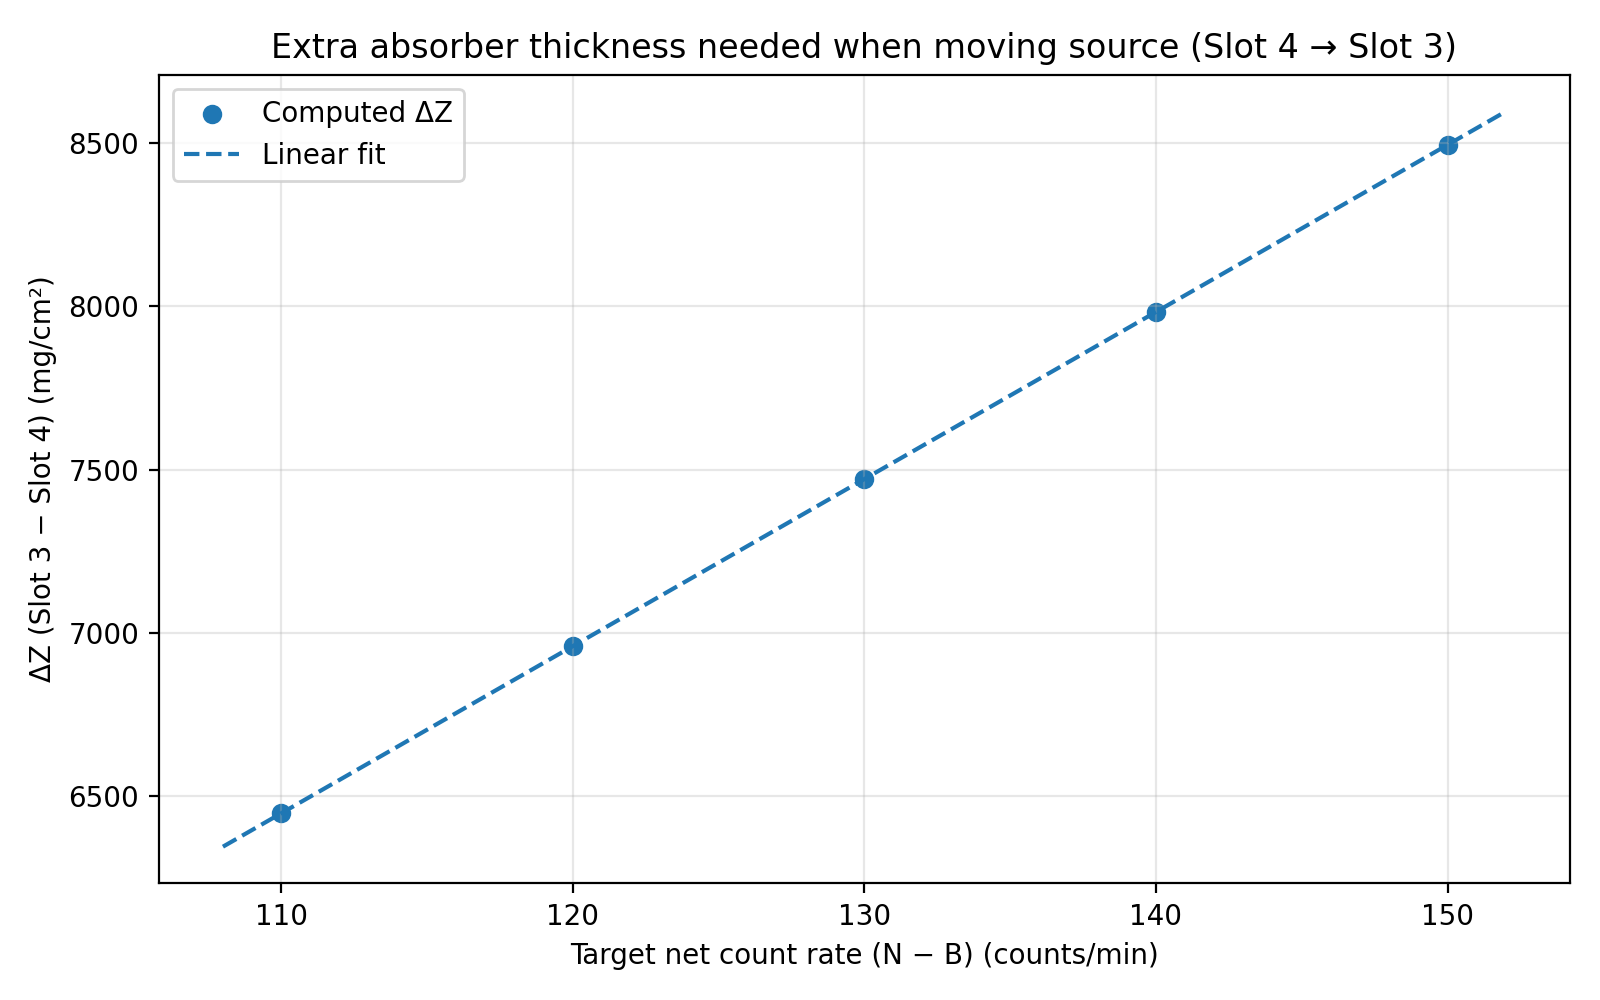
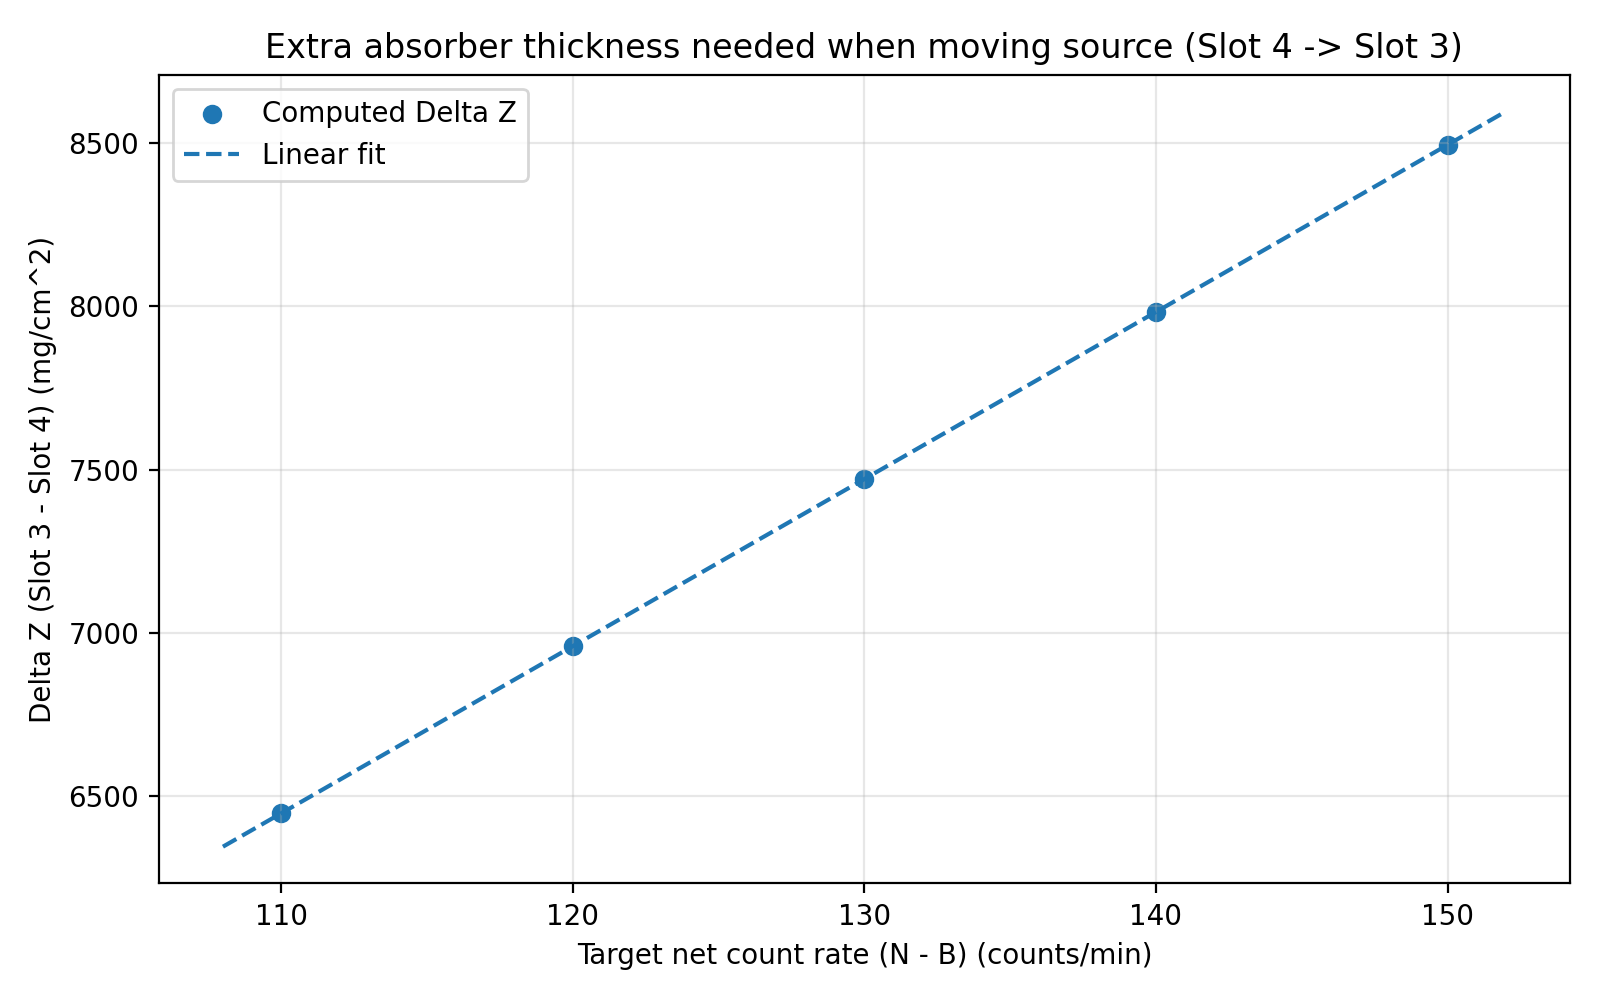
Clarify Co-60 analysis README and figures

diff --git a/src/analyze_co60.py b/src/analyze_co60.py
@@ -1,6 +1,7 @@
 """Analyze Co-60 attenuation data for different source positions.
 
-This script reproduces the key figures and regression results for the portfolio repository.
+This script reproduces the core figures and regression results from the
+experiment.
 
 Inputs
 ------
@@ -13,10 +14,6 @@ Outputs
 - figures/deltaZ_vs_nb.png
 - figures/absorber_position_net_rates.png
 - figures/regression_summary.txt
-
-Usage
------
-python src/analyze_co60.py
 """
 
 from __future__ import annotations
@@ -24,10 +21,10 @@ from __future__ import annotations
 from dataclasses import dataclass
 from pathlib import Path
 
+import matplotlib.pyplot as plt
 import numpy as np
 import pandas as pd
 from scipy import stats
-import matplotlib.pyplot as plt
 
 
 REPO_ROOT = Path(__file__).resolve().parents[1]
@@ -59,38 +56,34 @@ def linear_fit(x: np.ndarray, y: np.ndarray) -> FitResult:
 def main() -> None:
     processed = pd.read_csv(DATA_DIR / "processed_points.csv")
 
-    # Regression for Slot 3 and Slot 4
     slot3 = processed.loc[processed["source_position"] == "Slot 3"].copy()
     slot4 = processed.loc[processed["source_position"] == "Slot 4"].copy()
 
     fit3 = linear_fit(slot3["Z_mg_per_cm2"].to_numpy(), slot3["net_count_rate_cpm"].to_numpy())
     fit4 = linear_fit(slot4["Z_mg_per_cm2"].to_numpy(), slot4["net_count_rate_cpm"].to_numpy())
 
-    # Build delta Z vs N-B mapping (invert y = m x + b  -> x = (y-b)/m)
     nb_values = np.array([110, 120, 130, 140, 150], dtype=float)
 
     def inv_Z(fit: FitResult, nb: np.ndarray) -> np.ndarray:
         return (nb - fit.intercept) / fit.slope
 
-    Z3 = inv_Z(fit3, nb_values)
-    Z4 = inv_Z(fit4, nb_values)
-    deltaZ = Z3 - Z4
+    z3 = inv_Z(fit3, nb_values)
+    z4 = inv_Z(fit4, nb_values)
+    delta_z = z3 - z4
 
-    # --- Figure 1: N-B vs Z by slot with fitted lines ---
     fig1 = plt.figure(figsize=(10, 6))
     ax1 = fig1.add_subplot(111)
 
     for label, df in [("Slot 2", processed[processed["source_position"] == "Slot 2"]), ("Slot 3", slot3), ("Slot 4", slot4)]:
         ax1.scatter(df["Z_mg_per_cm2"], df["net_count_rate_cpm"], label=label)
 
-    # Fit lines for Slot 3 and Slot 4
     x_line = np.linspace(processed["Z_mg_per_cm2"].min() * 0.95, processed["Z_mg_per_cm2"].max() * 1.05, 200)
-    ax1.plot(x_line, fit3.slope * x_line + fit3.intercept, linestyle="--", label=f"Slot 3 fit")
-    ax1.plot(x_line, fit4.slope * x_line + fit4.intercept, linestyle="--", label=f"Slot 4 fit")
+    ax1.plot(x_line, fit3.slope * x_line + fit3.intercept, linestyle="--", label="Slot 3 fit")
+    ax1.plot(x_line, fit4.slope * x_line + fit4.intercept, linestyle="--", label="Slot 4 fit")
 
-    ax1.set_title("Net count rate (N − B) vs areal density Z")
-    ax1.set_xlabel("Absorber areal density Z (mg/cm²)")
-    ax1.set_ylabel("Net count rate (N − B) (counts/min)")
+    ax1.set_title("Net count rate (N - B) vs absorber areal density")
+    ax1.set_xlabel("Absorber areal density Z (mg/cm^2)")
+    ax1.set_ylabel("Net count rate (N - B) (counts/min)")
     ax1.grid(True, alpha=0.3)
     ax1.legend()
 
@@ -98,24 +91,22 @@ def main() -> None:
     fig1.savefig(FIG_DIR / "nb_vs_z_by_slot.png", dpi=200)
     plt.close(fig1)
 
-    # --- Figure 2: deltaZ vs N-B ---
-    fit_delta = linear_fit(nb_values, deltaZ)
+    fit_delta = linear_fit(nb_values, delta_z)
 
     fig2 = plt.figure(figsize=(8, 5))
     ax2 = fig2.add_subplot(111)
-    ax2.scatter(nb_values, deltaZ, label="Computed ΔZ")
+    ax2.scatter(nb_values, delta_z, label="Computed Delta Z")
     nb_line = np.linspace(nb_values.min() - 2, nb_values.max() + 2, 200)
     ax2.plot(nb_line, fit_delta.slope * nb_line + fit_delta.intercept, linestyle="--", label="Linear fit")
-    ax2.set_title("Extra absorber thickness needed when moving source (Slot 4 → Slot 3)")
-    ax2.set_xlabel("Target net count rate (N − B) (counts/min)")
-    ax2.set_ylabel("ΔZ (Slot 3 − Slot 4) (mg/cm²)")
+    ax2.set_title("Extra absorber thickness needed when moving source (Slot 4 -> Slot 3)")
+    ax2.set_xlabel("Target net count rate (N - B) (counts/min)")
+    ax2.set_ylabel("Delta Z (Slot 3 - Slot 4) (mg/cm^2)")
     ax2.grid(True, alpha=0.3)
     ax2.legend()
     fig2.tight_layout()
     fig2.savefig(FIG_DIR / "deltaZ_vs_nb.png", dpi=200)
     plt.close(fig2)
 
-    # --- Absorber-position test (does absorber position change net rate?) ---
     raw = pd.read_csv(DATA_DIR / "raw_absorber_position_test.csv")
     groups = [
         raw.loc[raw["absorber_position"] == "Slot 1", "net_count_rate_cpm"].to_numpy(),
@@ -132,14 +123,13 @@ def main() -> None:
     ax3.errorbar(order, means, yerr=sems, fmt="o", capsize=4)
     ax3.set_title(f"Absorber position test (one-way ANOVA p = {p_anova:.3g})")
     ax3.set_xlabel("Absorber position")
-    ax3.set_ylabel("Net count rate (N − B) (counts/min)")
+    ax3.set_ylabel("Net count rate (N - B) (counts/min)")
     ax3.grid(True, alpha=0.3)
     fig3.tight_layout()
     fig3.savefig(FIG_DIR / "absorber_position_net_rates.png", dpi=200)
     plt.close(fig3)
 
-    # --- Write a text summary ---
-    summary_lines = []
+    summary_lines: list[str] = []
     summary_lines.append("Slot 3 fit: y = m x + b\n")
     summary_lines.append(f"  m = {fit3.slope:.8f} cpm/(mg/cm^2)\n")
     summary_lines.append(f"  b = {fit3.intercept:.5f} cpm\n")
@@ -150,8 +140,8 @@ def main() -> None:
     summary_lines.append(f"  b = {fit4.intercept:.5f} cpm\n")
     summary_lines.append(f"  r = {fit4.r_value:.6f}, p = {fit4.p_value:.3g}\n\n")
 
-    summary_lines.append("ΔZ vs N−B (computed by inverting the two fits):\n")
-    summary_lines.append(f"  Fit: ΔZ = {fit_delta.slope:.2f}*(N−B) + {fit_delta.intercept:.2f}  (mg/cm^2)\n")
+    summary_lines.append("Delta Z vs N-B (computed by inverting the two fits):\n")
+    summary_lines.append(f"  Fit: Delta Z = {fit_delta.slope:.2f}*(N-B) + {fit_delta.intercept:.2f}  (mg/cm^2)\n")
     summary_lines.append(f"  p = {fit_delta.p_value:.3g}\n\n")
 
     summary_lines.append("Absorber-position one-way ANOVA on net count rate:\n")

diff --git a/README.md b/README.md
@@ -1,65 +1,64 @@
-# Co-60 Source Position vs Absorber Thickness (UCSB Physics)
+# Co-60 attenuation analysis: source position and absorber thickness
 
-**Author:** Hongyu Wang  
-**Instructor:** W. Lippincott  
-**Date:** June 5, 2024
+This repository analyzes a Co-60 counting experiment with a Geiger-Muller detector. The central question is how much additional absorber thickness is required to keep the net count rate fixed when the source position changes.
 
-## Question
-When using a Geiger–Müller (GM) detector with a Co-60 source, **how much additional shielding (absorber areal density) is required to maintain a fixed net count rate when the source is moved to a different slot (i.e., the geometry changes)?**
+## Analysis question
 
-## Method (high-level)
-1. Measure background-subtracted count rate **(N − B)** for several absorber stacks (areal density **Z**, mg/cm²) at different **source slots**.
-2. Restrict analysis to the **gamma-dominated** region (thick absorbers) where beta contributions are negligible.
-3. Perform linear regression of **(N − B) vs Z** for Slot 3 and Slot 4.
-4. Invert both fits to compute the **equivalent thickness difference** ΔZ needed to match a target net rate.
-5. Run a control study to verify absorber *position* does not significantly change the net rate at fixed Z.
+For a target background-subtracted net count rate, how does the required absorber areal density change when the source moves from one slot to another?
 
-## Key results
-### Net count rate vs absorber areal density
+## Method
+
+1. Use background-subtracted count rates for several absorber stacks and source positions.
+2. Restrict the fit to the gamma-dominated region where beta contributions are negligible.
+3. Fit net count rate versus areal density for the relevant source slots.
+4. Invert the fitted lines to compute the equivalent thickness difference `Delta Z` at fixed net count rate.
+5. Run a control test to check whether absorber position alone changes the net rate at fixed areal density.
+
+## Key figures
+
+**Net count rate versus absorber thickness**
+
 ![N-B vs Z](figures/nb_vs_z_by_slot.png)
 
-Regression lines (gamma-dominated regime):
-- Slot 3: *(N − B) = −0.00857·Z + 263.00*
-- Slot 4: *(N − B) = −0.00595·Z + 177.95*
+**Equivalent thickness change when moving the source**
 
-### Equivalent thickness change when moving the source
-![ΔZ vs N-B](figures/deltaZ_vs_nb.png)
+![Delta Z vs N-B](figures/deltaZ_vs_nb.png)
 
-Over typical operating points, the mapping is approximately linear:
-- **ΔZ ≈ 51.38·(N − B) + 781 (mg/cm²)**
+**Control test: absorber position**
 
-Example: for *(N − B) = 130 cpm*, moving Slot 4 → Slot 3 requires **ΔZ ≈ 7.46×10³ mg/cm²**.
+![Absorber position test](figures/absorber_position_net_rates.png)
 
-### Control: absorber position
-![Absorber position](figures/absorber_position_net_rates.png)
+## Main quantitative results
 
-A one-way ANOVA across absorber positions gives **p ≈ 0.70**, i.e., no statistically significant difference at fixed Z.
+- Slot 3 fit: `(N - B) = -0.00857 * Z + 263.00`
+- Slot 4 fit: `(N - B) = -0.00595 * Z + 177.95`
+- Approximate mapping over the operating region:
+  `Delta Z ~= 51.38 * (N - B) + 781` `mg/cm^2`
+- At `N - B = 130 cpm`, moving from Slot 4 to Slot 3 requires about `7.46e3 mg/cm^2` of additional absorber.
+- One-way ANOVA for absorber position gives `p ~= 0.70`, so no statistically significant position effect was detected at fixed areal density.
 
 ## Reproduce
-```bash
-# from the repository root
-python -m venv .venv
-source .venv/bin/activate
-pip install -r requirements.txt
 
+```bash
+python -m venv .venv
+pip install -r requirements.txt
 python src/analyze_co60.py
 ```
+
 Outputs are written to `figures/`.
 
 ## Repository structure
+
 ```text
-.
-├── data/
-│   ├── processed_points.csv
-│   └── raw_absorber_position_test.csv
-├── src/
-│   └── analyze_co60.py
-├── figures/                # auto-generated by the script
-├── report/                 # LaTeX source + compiled PDF
-├── summary/                # one-page, non-technical summary
-└── assets/                 # apparatus photo, decay scheme
+data/     Processed attenuation points and raw control-test data
+src/      Python analysis script
+figures/  Generated plots and regression summary
+report/   Technical report
+summary/  One-page non-technical summary
+assets/   Apparatus photo and decay scheme
 ```
 
 ## Writing sample
-- Full technical report: `report/report.pdf`
-- One-page non-technical summary: `summary/one_page_summary.pdf`
+
+- Technical report: `report/report.pdf`
+- One-page summary: `summary/one_page_summary.pdf`
